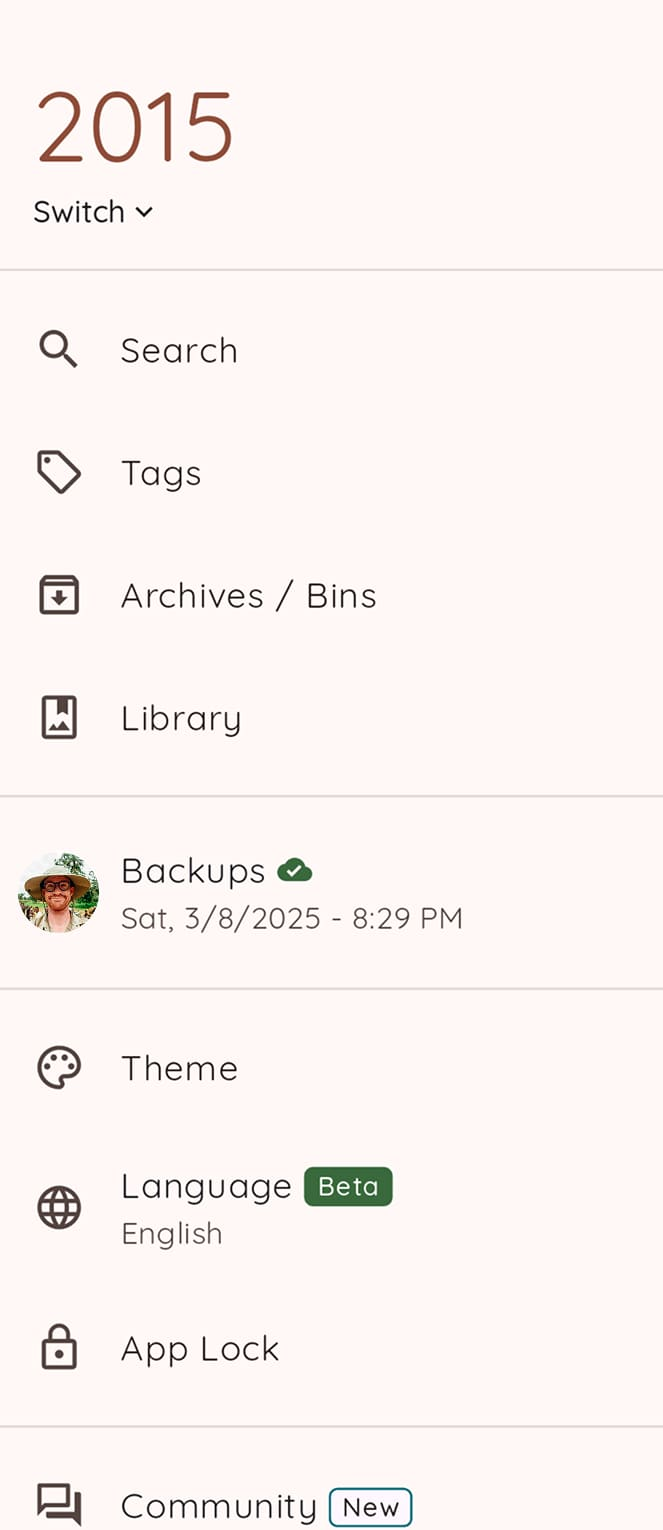
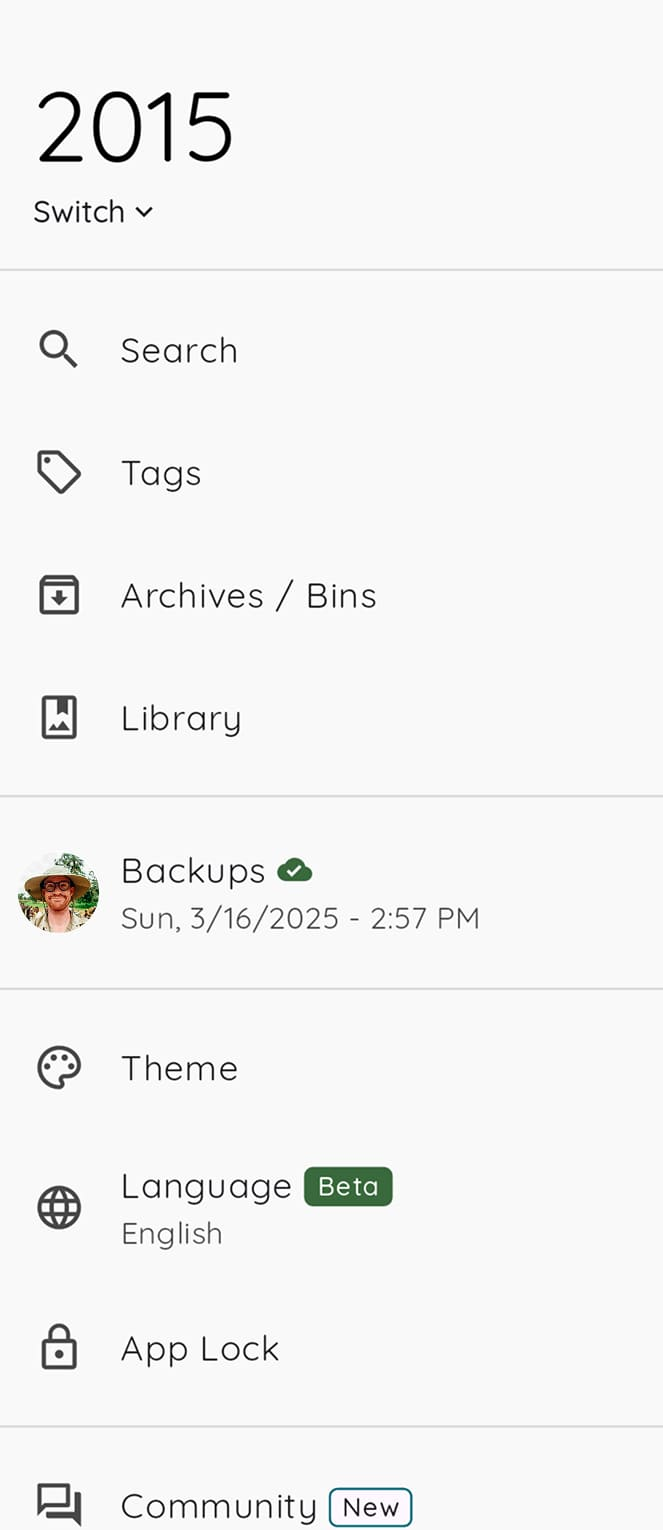
Update onboarding assets to fit with new theme & bump version

Changed region(s): [[0.2112, 0.5837, 0.724, 0.6144], [0.0603, 0.0614, 0.362, 0.1229]]

diff --git a/lib/widgets/bottom_sheets/story_theme_bottom_sheet.dart b/lib/widgets/bottom_sheets/story_theme_bottom_sheet.dart
@@ -8,7 +8,6 @@ import 'package:storypad/core/databases/models/story_db_model.dart';
 import 'package:storypad/core/databases/models/story_preferences_db_model.dart';
 import 'package:storypad/views/theme/local_widgets/font_family_tile.dart';
 import 'package:storypad/views/theme/local_widgets/font_weight_tile.dart';
-import 'package:storypad/views/theme/local_widgets/theme_mode_tile.dart';
 import 'package:storypad/widgets/bottom_sheets/base_bottom_sheet.dart';
 import 'package:storypad/widgets/sp_fade_in.dart';
 import 'package:storypad/widgets/sp_single_state_widget.dart';
@@ -41,13 +40,16 @@ class StoryThemeBottomSheet extends BaseBottomSheet {
                 notifier: notifier,
                 theme: theme,
               ),
-              ThemeModeTile(
-                currentThemeMode: theme.themeMode ?? ThemeMode.system,
-                onChanged: (ThemeMode themeMode) {
-                  notifier.value = notifier.value.copyWith(themeMode: themeMode);
-                  onThemeChanged(notifier.value);
-                },
-              ),
+              // This give more problem on navigation.
+              // Let's disable it for now.
+              //
+              // ThemeModeTile(
+              //   currentThemeMode: theme.themeMode ?? ThemeMode.system,
+              //   onChanged: (ThemeMode themeMode) {
+              //     notifier.value = notifier.value.copyWith(themeMode: themeMode);
+              //     onThemeChanged(notifier.value);
+              //   },
+              // ),
               FontWeightTile(
                 currentFontWeight: theme.fontWeight,
                 onChanged: (value) {

diff --git a/lib/views/fonts/fonts_content.dart b/lib/views/fonts/fonts_content.dart
@@ -7,19 +7,22 @@ class _FontsContent extends StatelessWidget {
 
   @override
   Widget build(BuildContext context) {
-    return Scaffold(
-      appBar: AppBar(
-        title: Text(tr("page.fonts.title")),
-        bottom: buildSearchBar(context),
-        actions: [
-          IconButton(
-            tooltip: "https://fonts.google.com",
-            icon: Icon(Icons.travel_explore_outlined),
-            onPressed: () => UrlOpenerService.openInCustomTab(context, "https://fonts.google.com"),
-          ),
-        ],
+    return GestureDetector(
+      onTap: () => FocusManager.instance.primaryFocus?.unfocus(),
+      child: Scaffold(
+        appBar: AppBar(
+          title: Text(tr("page.fonts.title")),
+          bottom: buildSearchBar(context),
+          actions: [
+            IconButton(
+              tooltip: "https://fonts.google.com",
+              icon: Icon(Icons.travel_explore_outlined),
+              onPressed: () => UrlOpenerService.openInCustomTab(context, "https://fonts.google.com"),
+            ),
+          ],
+        ),
+        body: buildBody(context),
       ),
-      body: buildBody(context),
     );
   }
 

diff --git a/lib/widgets/sp_app_lock_wrapper.dart b/lib/widgets/sp_app_lock_wrapper.dart
@@ -93,10 +93,12 @@ class _LockedBarrierState extends State<_LockedBarrier> with SingleTickerProvide
     final context = this.context;
     if (!context.mounted) return;
 
-    authenticated = await context.read<AppLockProvider>().authenticateIfHas(context);
-    if (authenticated) {
-      await animationController.reverse(from: 1.0);
-      setState(() => showBarrier = false);
+    if (ModalRoute.of(context)?.isCurrent == true) {
+      authenticated = await context.read<AppLockProvider>().authenticateIfHas(context);
+      if (authenticated) {
+        await animationController.reverse(from: 1.0);
+        setState(() => showBarrier = false);
+      }
     }
   }
 

diff --git a/lib/views/fonts/fonts_view.dart b/lib/views/fonts/fonts_view.dart
@@ -50,6 +50,7 @@ class FontsView extends StatelessWidget {
             fontWeight: viewModel.currentFontWeight,
           ).copyWith(
             appBarTheme: AppBarTheme.of(context),
+            scaffoldBackgroundColor: Theme.of(context).scaffoldBackgroundColor,
           ),
           child: _FontsContent(viewModel),
         );
